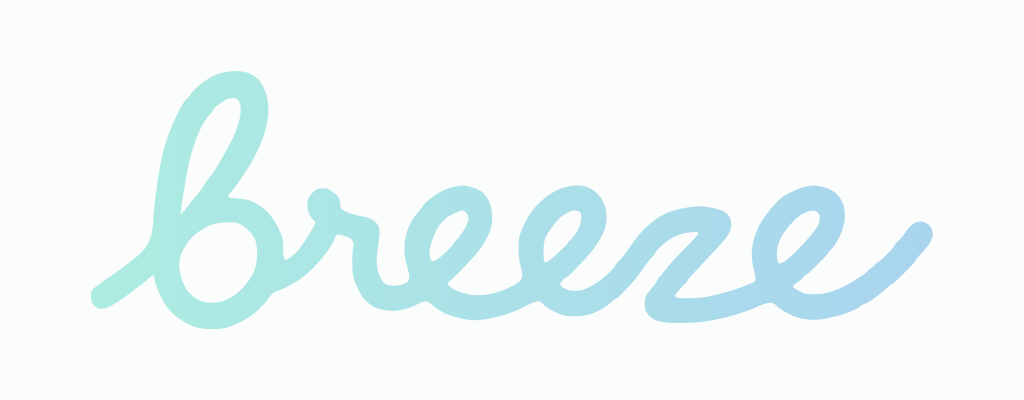
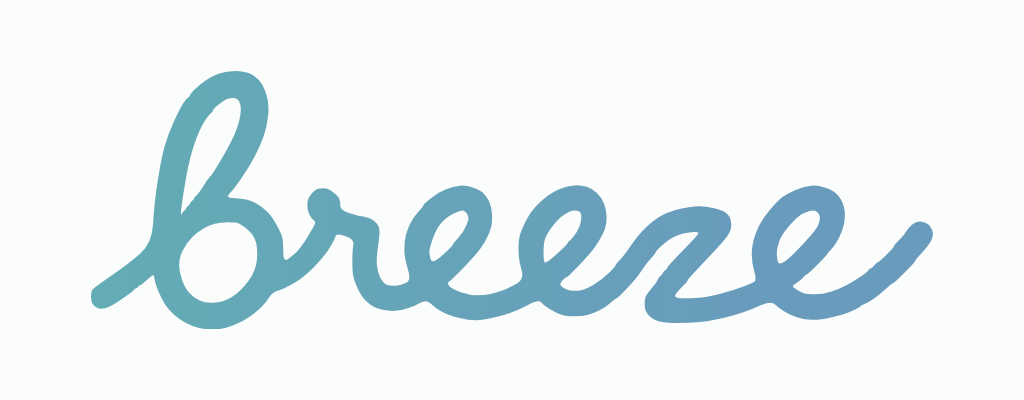
Apply selected WHITE B and restrained letter glass with accessible fallbacks

Changed region(s): [[0.0625, 0.18, 0.9375, 0.84]]

diff --git a/styles/home-shell.css b/styles/home-shell.css
@@ -3,10 +3,15 @@
 html:has(:is(#v-home,#v-casuals,#v-longform).on),body:has(:is(#v-home,#v-casuals,#v-longform).on){background:var(--home-background);}
 body:has(:is(#v-home,#v-casuals,#v-longform).on)::before{display:none;}
 body:has(:is(#v-home,#v-casuals,#v-longform).on) #topbar{position:relative;transform:none;opacity:1;visibility:visible;pointer-events:auto;transition:none;background:transparent;backdrop-filter:none;border:0;gap:10px;padding:calc(env(safe-area-inset-top) + 24px) 20px 12px;}
-.breeze-wordmark{display:block;width:120px;aspect-ratio:841/258;background:url('../assets/brand/wordmark-light.svg') center/contain no-repeat;}
+.breeze-wordmark{position:relative;display:block;width:120px;aspect-ratio:841/258;background:url('../assets/brand/wordmark-light.svg') center/contain no-repeat;filter:drop-shadow(0 1px .6px var(--sentence-glass-scrim));}
+.breeze-wordmark::before,.breeze-wordmark::after{content:'';position:absolute;inset:0;pointer-events:none;-webkit-mask:url('../assets/brand/wordmark-mask.svg') center/contain no-repeat;mask:url('../assets/brand/wordmark-mask.svg') center/contain no-repeat;}
+.breeze-wordmark::before{background:var(--control-light-reflection);opacity:.16;}
+.breeze-wordmark::after{background:var(--sentence-glass-line);opacity:.45;-webkit-mask-image:url('../assets/brand/wordmark-mask.svg'),url('../assets/brand/wordmark-mask.svg');mask-image:url('../assets/brand/wordmark-mask.svg'),url('../assets/brand/wordmark-mask.svg');-webkit-mask-position:0 0,0 1px;mask-position:0 0,0 1px;-webkit-mask-size:100% 100%;mask-size:100% 100%;-webkit-mask-composite:source-out;mask-composite:subtract;}
 body.dark .breeze-wordmark{background-image:url('../assets/brand/wordmark-dark.svg');}
 body:has(:is(#v-home,#v-casuals,#v-longform).on) #logo{gap:10px;}
-body:has(:is(#v-home,#v-casuals,#v-longform).on) #logo .breeze-wordmark{width:132px;background:var(--settings-ink);-webkit-mask:url('../assets/brand/wordmark-mask.svg') center/contain no-repeat;mask:url('../assets/brand/wordmark-mask.svg') center/contain no-repeat;}
+body:has(:is(#v-home,#v-casuals,#v-longform).on) #logo .breeze-wordmark{width:132px;background:none;}
+body:has(:is(#v-home,#v-casuals,#v-longform).on) #logo .breeze-wordmark::before{background:var(--control-light-reflection),linear-gradient(180deg,transparent 45%,var(--sentence-glass-scrim) 80%,transparent),var(--settings-ink);background-blend-mode:soft-light,normal;opacity:1;}
+@media(prefers-reduced-transparency:reduce),(prefers-reduced-motion:reduce),(prefers-contrast:more){.breeze-wordmark{filter:none;}.breeze-wordmark::before{opacity:0;}.breeze-wordmark::after{display:none;}body:has(:is(#v-home,#v-casuals,#v-longform).on) #logo .breeze-wordmark::before{background:var(--settings-ink);background-blend-mode:normal;opacity:1;}}
 body:has(:is(#v-home,#v-casuals,#v-longform).on) #nav-settings{margin-left:auto;flex:none;width:44px;height:44px;}
 body:has(:is(#v-home,#v-casuals,#v-longform).on) #nav-settings svg{width:18px;height:18px;fill:none;stroke:currentColor;stroke-width:1.7;stroke-linecap:round;stroke-linejoin:round;}
 body:has(:is(#v-home,#v-casuals,#v-longform).on) #nav-settings span{position:absolute;width:1px;height:1px;overflow:hidden;clip-path:inset(50%);white-space:nowrap;}

diff --git a/styles/onboarding.css b/styles/onboarding.css
@@ -13,9 +13,9 @@ body.onboarding-active #v-read{background:var(--onboard-paper);}
 #onboard-step{color:var(--onboard-muted);font:600 11px/1.4 var(--ui);letter-spacing:1px;}
 #onboard-prompt{margin:16px 0 24px;font:650 24px/1.4 var(--ui);letter-spacing:-.6px;word-break:keep-all;}
 #onboard-note{margin:0 0 24px;font:400 14px/1.6 var(--ui);color:var(--onboard-muted);}
-#onboard-next,#onboard-finish,#onboard-sentence{width:100%;margin-top:12px;border:1px solid #e4e8ef;border-radius:16px;background:transparent;}
-body.dark #onboard-next,body.dark #onboard-finish,body.dark #onboard-sentence{border-color:#313b4b;}
-#onboarding #onboard-next{min-height:52px;font-weight:650;background:var(--onboard-ink);color:var(--onboard-paper);border:0;}
+#onboard-finish,#onboard-sentence{width:100%;margin-top:12px;border:1px solid #e4e8ef;border-radius:16px;background:transparent;}
+body.dark #onboard-finish,body.dark #onboard-sentence{border-color:#313b4b;}
+#onboarding #onboard-next{width:100%;margin-top:12px;border-radius:16px;min-height:52px;font-weight:650;color:var(--sentence-glass-ink);}
 #onboarding #onboard-next:disabled{background:#edf0f5;color:#9aa5b4;}
 body.dark #onboarding #onboard-next:disabled{background:#242c39;color:#8390a4;}
 #onboard-finish,#onboard-sentence{font-size:13px!important;}
@@ -57,3 +57,4 @@ body.onboarding-active[data-onboard-stage="3"] #rtext p:last-child{font-size:var
 #onboard-font-value{color:var(--onboard-muted);font:500 14px var(--ui);min-width:24px;}
 @media(max-height:500px){body.onboarding-active #readwrap{padding-top:80px;padding-bottom:200px;}#onboard-prompt{font-size:18px;margin:8px 0 16px;}#onboard-note{font-size:12px;margin-bottom:8px;}#onboard-reader-settings{margin:8px 0;}#onboard-welcome .breeze-wordmark{width:190px;}#onboarding:is([data-stage="0"],[data-stage="4"]) #onboard-prompt{font-size:26px;align-self:center;text-align:center;margin:8px 0;}#onboarding:is([data-stage="0"],[data-stage="4"]) #onboard-coach{width:100%;padding-bottom:128px;}#onboarding[data-stage="0"] #onboard-note{align-self:center;margin:0;}#onboard-overlay-guide{justify-content:space-between;}}
 @media(prefers-reduced-motion:reduce){body.onboarding-active #rtext p{transition:none;}body.onboarding-active .onboard-target{animation:none;outline:1.5px solid #91a8da;outline-offset:4px;}}
+@media(prefers-reduced-transparency:reduce),(prefers-contrast:more){#onboarding #onboard-next{background:var(--sentence-glass-solid);backdrop-filter:none;-webkit-backdrop-filter:none;box-shadow:none;}}

diff --git a/index.html b/index.html
@@ -60,8 +60,8 @@
   <link rel="stylesheet" href="styles/responsive.css?v=8feb0509">
   <link rel="stylesheet" href="styles/wordbook.css?v=1736245b">
   <link rel="stylesheet" href="styles/home-font.css?v=d817d87e">
-  <link rel="stylesheet" href="styles/home-shell.css?v=5fd466f5">
-  <link rel="stylesheet" href="styles/onboarding.css?v=7cd86bec">
+  <link rel="stylesheet" href="styles/home-shell.css?v=f6c991f5">
+  <link rel="stylesheet" href="styles/onboarding.css?v=280b20b8">
 
   <!-- PDF·EPUB 라이브러리(418KB)는 파일을 처음 열 때 받습니다. 기사만 읽는
        사람에게 첫 화면에서 물리지 않습니다 — `scripts/core/lazy-lib.js` -->
@@ -562,7 +562,7 @@
     <div id="onboard-reader-settings" role="group" aria-label="글자 크기" hidden>
       <button id="onboard-font-smaller" type="button" aria-label="글자 작게">A−</button><span id="onboard-font-value" aria-live="polite"></span><button id="onboard-font-larger" type="button" aria-label="글자 크게">A+</button>
     </div>
-    <button id="onboard-next" type="button">시작하기</button>
+    <button id="onboard-next" class="control-glass" type="button">시작하기</button>
     <button id="onboard-finish" type="button" hidden>나중에</button>
   </section>
 </div>

diff --git a/sw.js b/sw.js
@@ -33,7 +33,7 @@
 /* tools/stamp-version.mjs 가 찍습니다 — 손으로 고치지 마세요.
    값은 "판 번호를 찍은 index.html 의 해시" 입니다. index.html 은 모든 파일의
    해시를 담고 있으니, 이 한 줄이 "무엇이든 바뀌었다" 를 정확히 가리킵니다. */
-const VERSION = '02a55943';
+const VERSION = '9823bed6';
 const CACHE = `breeze-${VERSION}`;
 
 /* 담을 목록은 index.html 을 읽어서 그때그때 만듭니다. 손으로 적어 두면 파일을

diff --git a/tools/trace-breeze-brand.py b/tools/trace-breeze-brand.py
@@ -61,15 +61,17 @@ def outline(bounds):
 
 
 def svg(width,height,path,dark=False,icon=False):
-    # 07:56 feedback: WHITE uses exactly Dark01 ink, without darkening it.
-    # 08:15 feedback confirms the original approved cursive r contour.
-    colors=('#acece1','#a9d4ee')
+    # 08:15 confirms original cursive r; 08:48 selects WHITE palette B.
+    # Dark01 and br icon ink remain unchanged.
+    colors=('#acece1','#a9d4ee') if dark or icon else ('#63acb5','#699bbc')
+    gradient=f'<stop stop-color="{colors[0]}"/><stop offset="{1 if dark or icon else .8}" stop-color="{colors[1]}"/>'
+    if not dark and not icon: gradient+=f'<stop offset="1" stop-color="{colors[1]}"/>'
     if icon:
         scale=820/max(width,height); x=(1024-width*scale)/2; y=(1024-height*scale)/2
         geometry=f'<rect width="1024" height="1024" rx="220" fill="#20211e"/><g transform="translate({x:g} {y:g}) scale({scale:g})"><path d="{path}" fill="url(#ink)" fill-rule="evenodd"/></g>'
         width=height=1024
     else: geometry=f'<path d="{path}" fill="url(#ink)" fill-rule="evenodd"/>'
-    return f'<svg xmlns="http://www.w3.org/2000/svg" viewBox="0 0 {width} {height}"><defs><linearGradient id="ink"><stop stop-color="{colors[0]}"/><stop offset="1" stop-color="{colors[1]}"/></linearGradient></defs>{geometry}</svg>\n'
+    return f'<svg xmlns="http://www.w3.org/2000/svg" viewBox="0 0 {width} {height}"><defs><linearGradient id="ink">{gradient}</linearGradient></defs>{geometry}</svg>\n'
 
 
 if __name__=='__main__':

diff --git a/docs/qa/breeze-wordmark-draft.md b/docs/qa/breeze-wordmark-draft.md
@@ -1,10 +1,11 @@
 # Breeze Dark01 brand — screenshot draft
 
-08:08: Home header is now monochrome using the existing neutral text token,
-with the identical source contour. Ten brand layouts and the new monochrome
-mask assertion pass locally. Onboarding WHITE palette A/B previews await review;
-dark and letterform remain unchanged. Preview metadata is in
-`white-palette-variants/library-images.json`.
+Final reviewed direction: original cursive r (08:15), WHITE palette B (08:48),
+and monochrome Home with letter-only Liquid Glass highlights/shallow depth.
+WHITE stops are #63acb5 at 0%, #699bbc at 80%/100%; Dark01 stops stay unchanged.
+Start/Next uses the shared control-glass material; tutorial interactions stay
+minimal. There is no wordmark plate, backdrop blur or animation. The historical
+palette comparison is in `white-palette-variants/library-images.json`.
 
 The original `26266e8` CI attempt passed onboarding/branding on Chromium and
 WebKit, sentence responsive on both engines and Integrity contract/diagnostic
@@ -13,11 +14,12 @@ to a detached PDF canvas after repaint. The test now releases on the current
 hit-tested surface when its old target has detached, preserving the assertion
 that the document gesture owner receives release. Reader production code is
 unchanged. Forced synthetic-pointer TXT/PDF/EPUB checks pass locally in Chromium;
-actual WebKit verification awaits the next exact-head CI.
+actual WebKit verification passed on `d21f233` (sentence inline run 37593967303,
+both engines, all 16 job steps). Subsequent visual styling does not change it.
 
 **Letterform approved at 08:15:** keep the original cursive `r`. No plain-r
-alternative is implemented. Current onboarding/splash assets use identical
-Dark01 ink; the WHITE palette A/B comparison still awaits user selection.
+alternative is implemented. Selected B is applied to WHITE onboarding/splash
+and the static native WHITE wordmark. Dark artwork and br icon ink are unchanged.
 
 Stacked on guided onboarding/auth PR #122 (`04056222`). Base main remains
 `c649047d`. No merge, deployment, release build or App Review submission.
@@ -39,11 +41,17 @@ Local validation passed:
 - Existing `test:onboarding`: interruption/reopening, Back, Skip, both successful
   endings, keyboard alternative, cancellation, returning data and storage isolation.
 - Brand browser checks at 390×844, 820×1180, 1440×900, 320×568 and 844×390 in
-  light/dark and reduced motion: exact proportions, no overflow, cold startup
-  removes splash without a new delay. Forty real browser captures.
+  light/dark: exact proportions, no overflow, cold startup removes splash without
+  a new delay, no wordmark plate/blur, neutral opaque Home ink. Reduced motion and
+  increased contrast remove letter material effects; Chromium additionally uses
+  actual CDP media emulation for reduced transparency, including opaque CTA and
+  static logo captures. WebKit transparency preference cannot be emulated through
+  the public Playwright API; its shared motion/contrast fallback is checked.
 - Asset-catalog JSON and storyboard XML parse; 1024px icon and all 1x/2x/3x
-  native wordmark dimensions verified. Dark logo contrast exceeds 10:1; the exact
-  requested pale WHITE ink is decorative logo artwork, not instructional text.
+  native wordmark dimensions verified. Dark logo base contrast exceeds 10:1;
+  selected WHITE B base endpoints are 2.52/2.91 on #FBFCFC, decorative logo ink.
+  Shared-token reflections are confined to contours; reduced settings remove
+  them. Home base ink is #1C1C1E / #F2F2F7, readable on existing Home paper.
   The surrounding Korean instructions retain their readable ink. Logo text is accessible
   by the Breeze name, not color or animation.
 

diff --git a/docs/decisions/014-breeze-wordmark.md b/docs/decisions/014-breeze-wordmark.md
@@ -4,8 +4,8 @@ The user selected Dark01 and authorized a white-mode version, onboarding,
 splash and restrained Home branding, with screenshots before approval. This
 draft is stacked on PR #122 and changes no auth, Reader lookup or release policy.
 The user confirmed the original cursive `r` at 08:15. Its contour is retained;
-the plain-r alternative is not implemented. WHITE palette A/B still awaits
-selection after the 08:06 feedback about the pale appearance.
+the plain-r alternative is not implemented. The user selected WHITE palette B
+at 08:48: #63acb5 at 0%, #699bbc at 80% and 100%. Dark01 ink is unchanged.
 
 The approved Library board is `libfile_709561bacc108191b6ec01dddc4318f9`
 (version 0, backing `file_000000006c9881f9bf2b7604c4c0cb57`). Actual pixels
@@ -14,16 +14,26 @@ source and is excluded from the shipped application bundle.
 `tools/trace-breeze-brand.py` extracts its connected
 wordmark and `br` contours with midpoint quadratic smoothing (maximum polygon
 simplification tolerance 1.15 source pixels), removing raster texture. Both
-themes share exactly the same outline and aspect ratio. Both use the exact
-Dark01 gradient #acece1 → #a9d4ee; WHITE is not darkened. These are decorative
+themes share exactly the same outline and aspect ratio. Dark01 keeps
+#acece1 → #a9d4ee; WHITE uses selected B. These are decorative
 brand ink, not general control/selection tokens.
 
 The full wordmark replaces the mascot on welcome and completion. Following
 08:08 user feedback, the Home header uses the identical contour as a mask filled
 with the existing neutral `--settings-ink` token (#1C1C1E / #F2F2F7), with no
-gradient. Colored artwork remains on onboarding and splash. The 08:06 feedback
-rejects the pale WHITE effect; two preview-only white palette candidates are
-recorded separately and await user selection. Dark ink is unchanged.
+colored gradient. Colored artwork remains on onboarding and splash. The palette
+comparison is historical review evidence; B is now selected and shipped.
+
+The subsequent Liquid Glass direction adds a thin directional reflection and
+1px shallow depth only on the original letter contours. It reuses shared
+`--control-light-reflection`, `--sentence-glass-line` and scrim tokens; no new
+plate, backdrop blur, shimmer or interaction is added to the wordmark. Home
+stays neutral monochrome; onboarding keeps its colored outline with the same
+restrained letter treatment. Start/Next uses the real `.control-glass` material,
+whose owner remains `reader.css`, at the existing tutorial button geometry.
+Reduced transparency/motion or increased contrast removes letter reflections
+and depth. Reduced transparency/increased contrast makes the CTA opaque with
+no backdrop blur. Static native/web splash artwork keeps its simple flat mark.
 The ordinary content word `Breeze` stays selectable Reader text. Its
 lesson, actual mini pill, expansion, translation and explanation remain shared.
 Home content and navigation, including the existing Memory illustration, remain

diff --git a/DESIGN.md b/DESIGN.md
@@ -8,7 +8,7 @@
 
 읽는 내용이 먼저 보이는 차분한 화면. 중립적인 바탕과 잉크, 얇은 경계, 부드럽게 둥근 조작부, 필요한 순간에만 나타나는 유리 표면을 사용한다. 파랑은 선택과 진행을 알려 주는 작은 강조로 사용한다.
 
-2026-10-07 사용자 선택 Dark01 브랜드 초안: 연결된 소문자 `breeze` 워드마크와 `br` 앱 아이콘. 실제 승인 이미지에서 윤곽을 추출하며 밝은/어두운 모드는 같은 형태를 유지한다. 청록→파랑은 로고 안의 브랜드 색으로만 사용한다. 온보딩·정적 스플래시·홈 헤더의 적용 기준과 검증 한계는 [브랜드 결정](docs/decisions/014-breeze-wordmark.md)을 따른다.
+2026-10-07 사용자 선택: 기존 필기체 `r`을 유지한 `breeze` 워드마크와 `br` 앱 아이콘. 화이트는 B 팔레트(#63acb5→#699bbc), 다크는 기존 Dark01을 유지한다. 홈 헤더는 단색이며 글자 안에만 얇은 반사와 얕은 깊이를 더한다. 온보딩도 같은 유리 재질 톤을 사용하고 투명도·동작 감소에서는 평면·불투명 표현을 제공한다. 승인 이미지의 윤곽과 비율은 그대로 유지한다. 적용 기준과 검증 한계는 [브랜드 결정](docs/decisions/014-breeze-wordmark.md)을 따른다.
 
 기준 컴포넌트는 `#word-peek`, `#panel`, `#p-sentence`, `.control-glass`, `.control-dock`, `.control-bar`, `.control-circle`, `.control-pill`이다. 이 컴포넌트의 색감·반사·위치·선택 단어와의 관계를 주변 화면 정리 과정에서 재해석하지 않는다.
 

diff --git a/docs/qa/white-palette-variants/README.md b/docs/qa/white-palette-variants/README.md
@@ -1,8 +1,10 @@
-# WHITE palette comparison — selection pending
+# WHITE palette comparison — B selected
 
 08:15 user decision confirms the original cursive r; all three variants have
 the exact same source contour. Dark onboarding/splash ink is unchanged.
 Home now uses neutral text-token monochrome and is outside this color choice.
+The user confirmed B at 08:48. This sheet remains historical review evidence;
+selected B is applied to WHITE onboarding/splash and native static artwork.
 
 | Variant | Gradient stops | Endpoint contrast on #FBFCFC |
 |---|---|---|
@@ -25,6 +27,5 @@ The individual colored Home candidate files are historical palette comparisons
 from before the monochrome Home direction, not the current Home. Latest actual
 monochrome screenshots and native IDs are in `../breeze-wordmark/`.
 
-Preview vectors live under `docs/brand/white-palette-variants/`, outside the app
-bundle. No A/B palette is applied to production onboarding or native artwork
-until selection. Native Library references are in `library-images.json`.
+Comparison vectors live under `docs/brand/white-palette-variants/`, outside the
+app bundle. Native Library references are in `library-images.json`.
